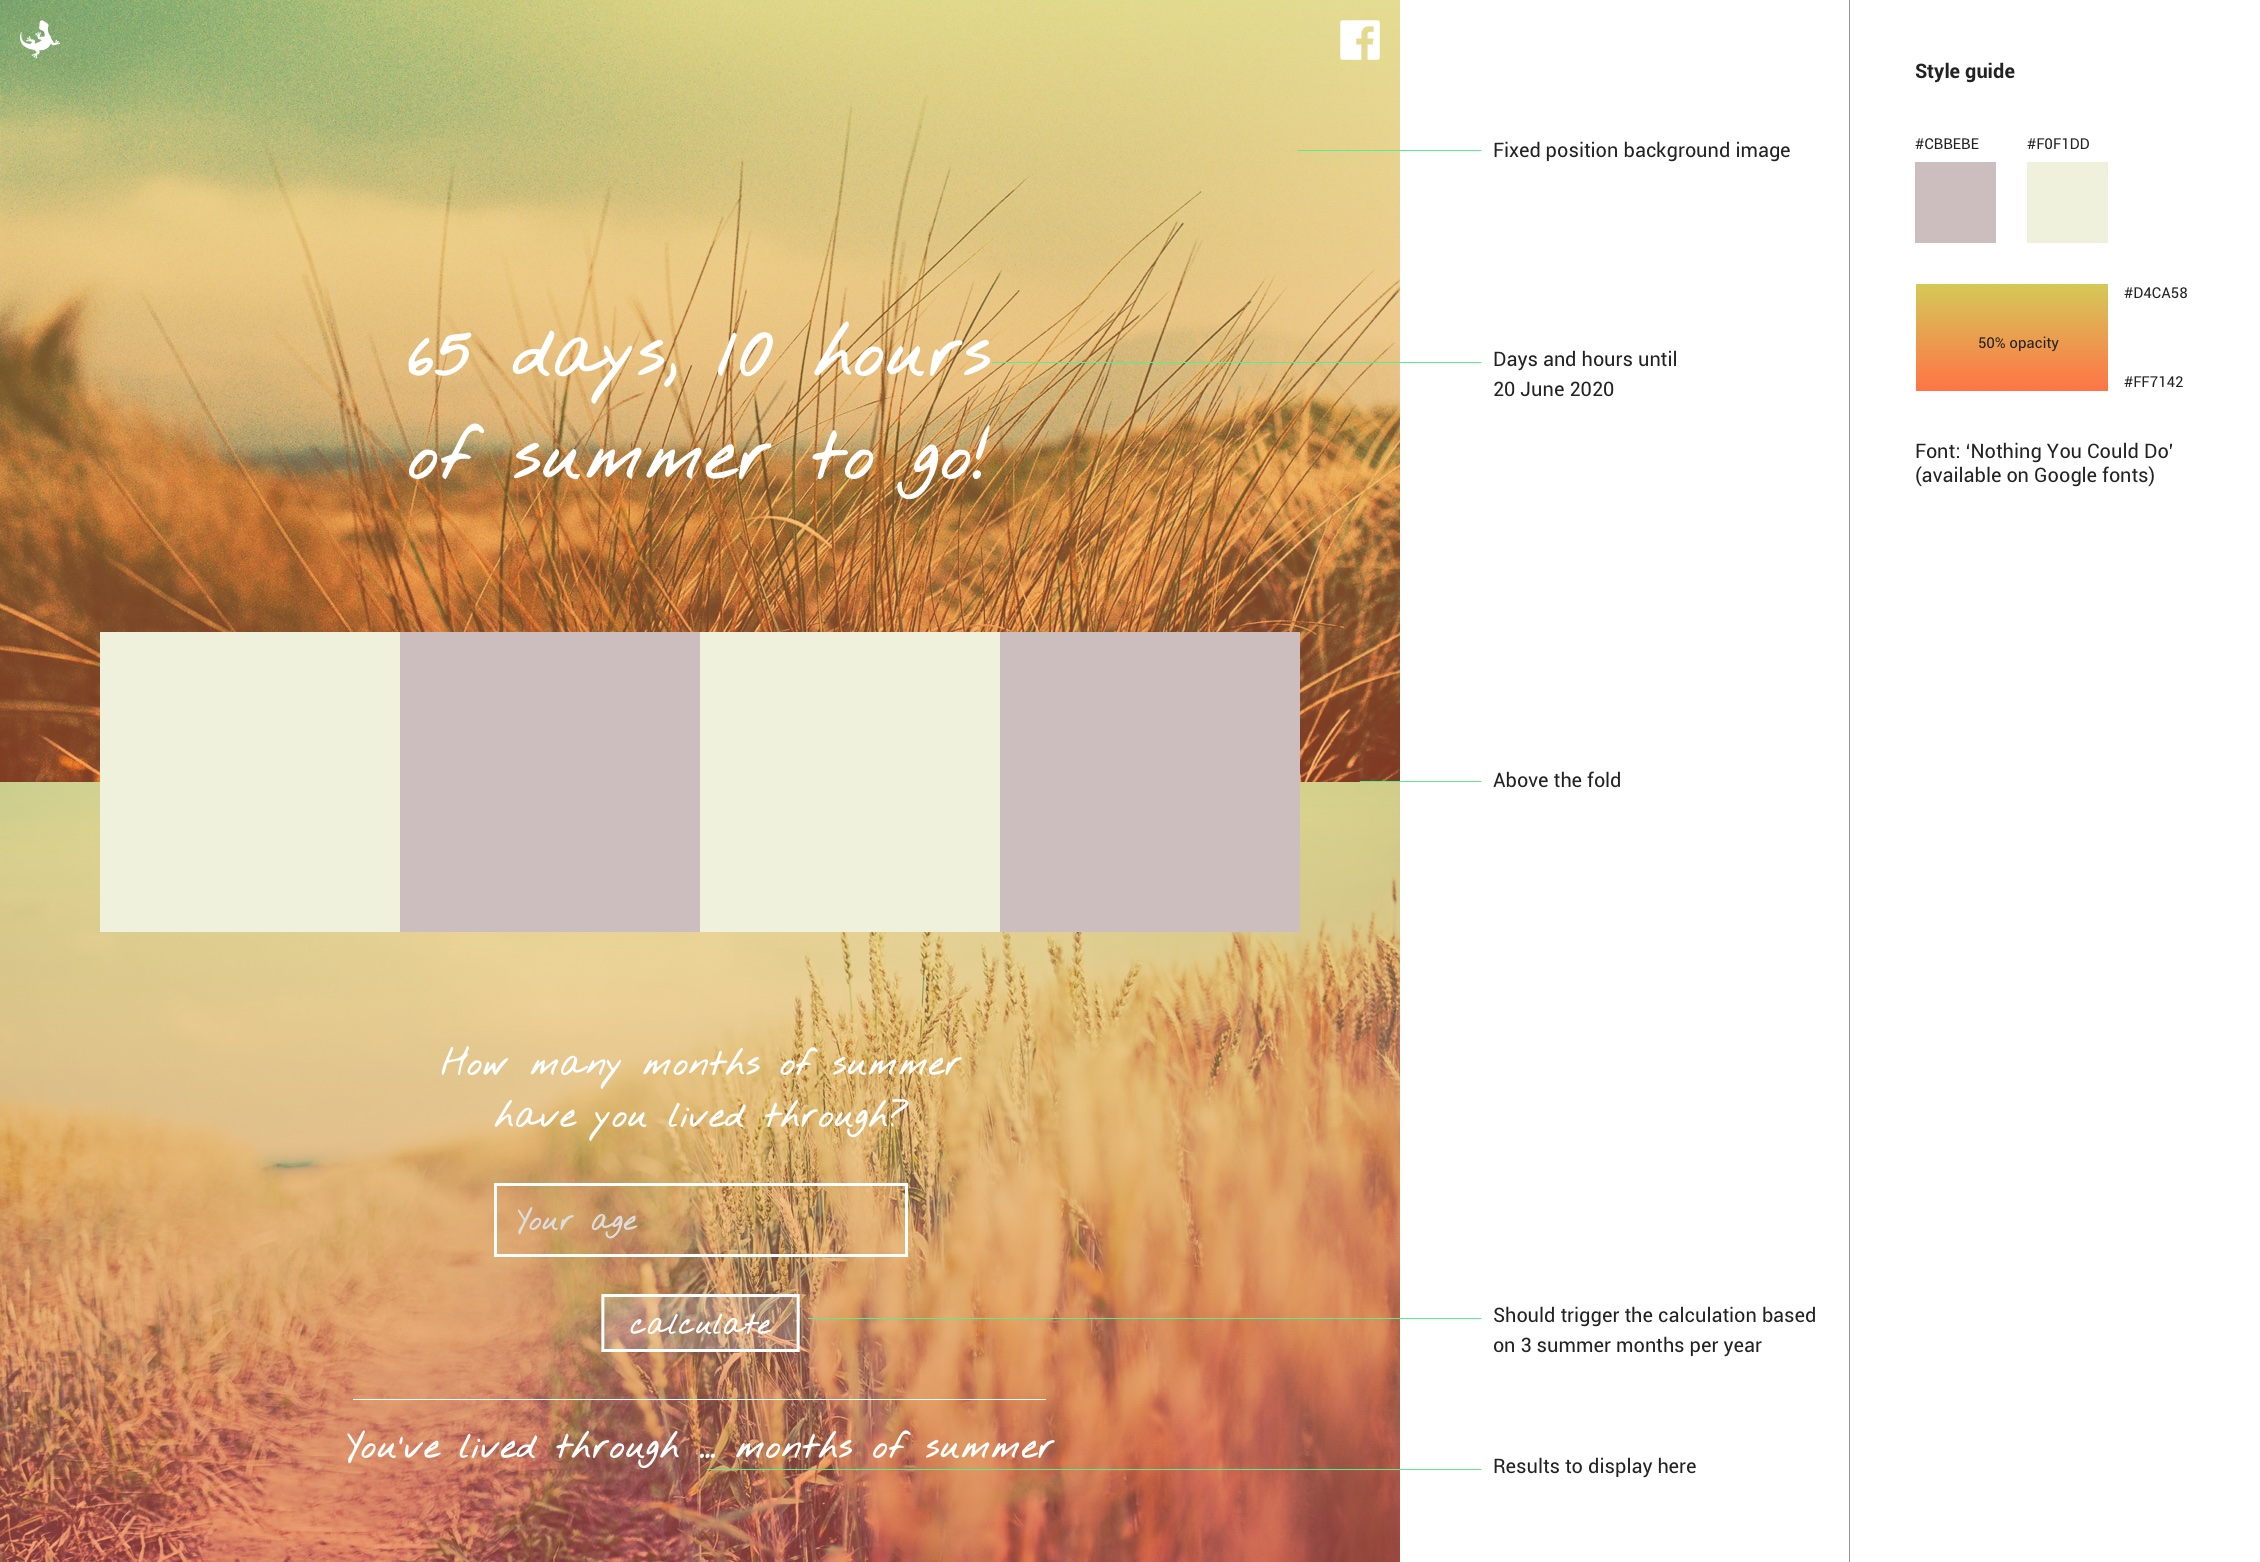
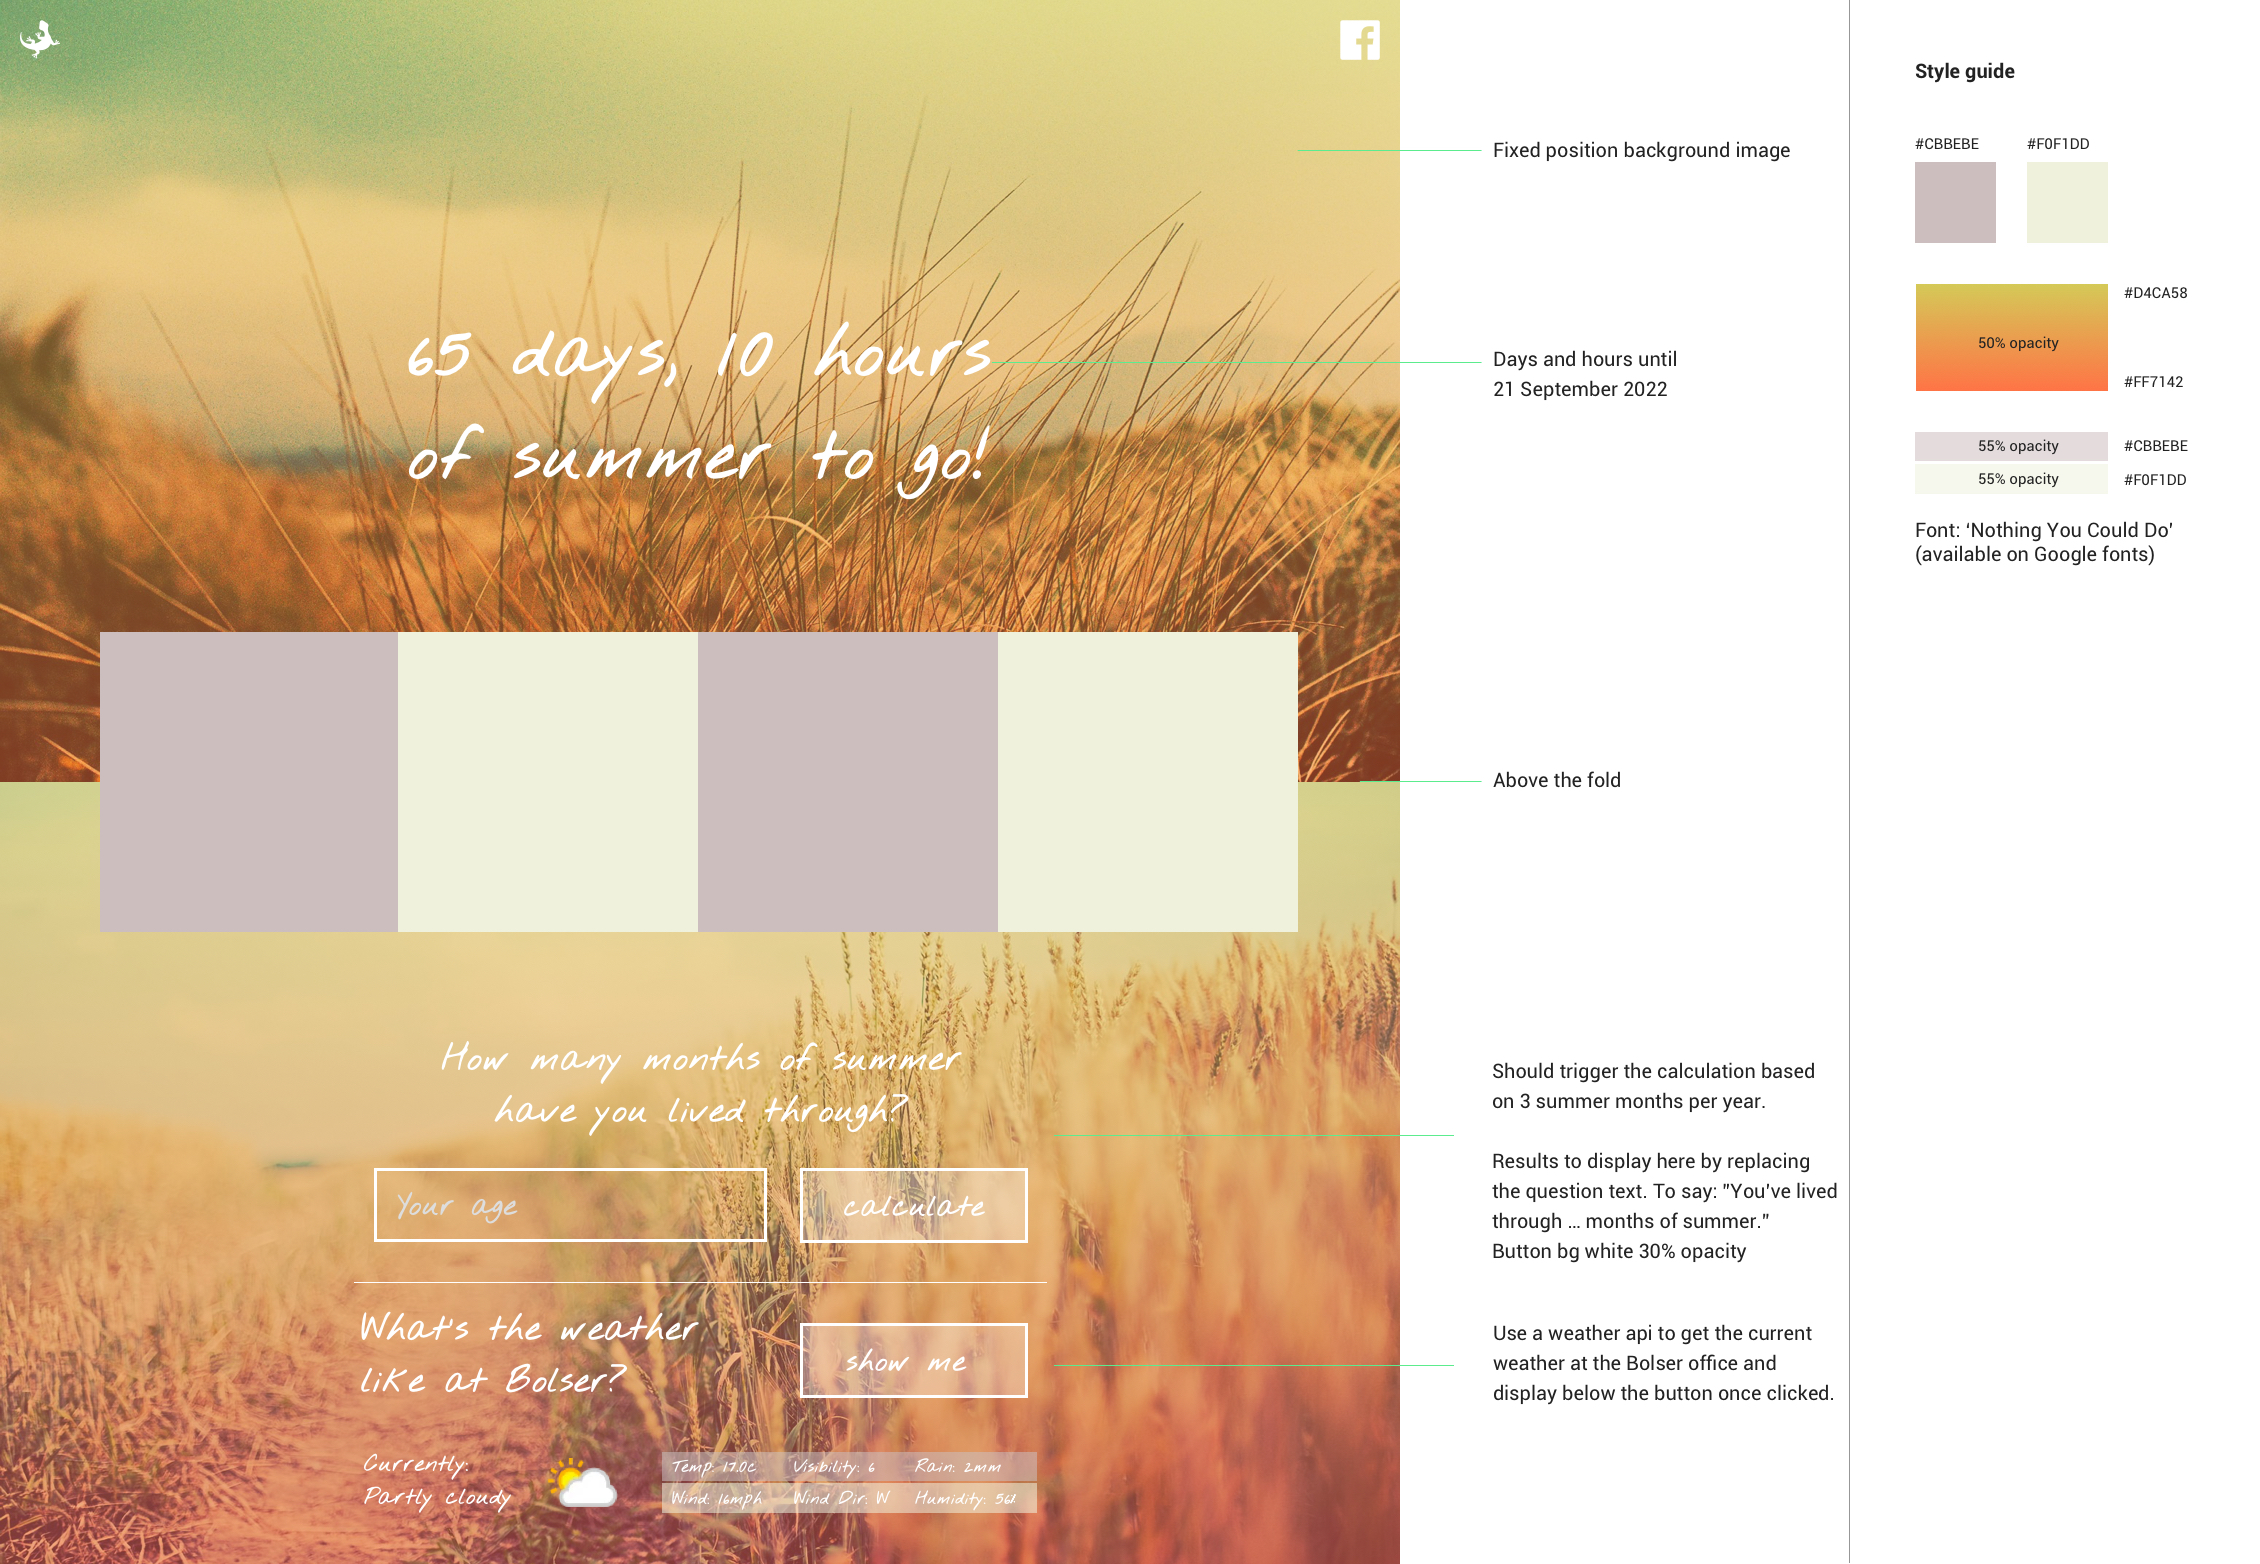
Test update to include weather api call

diff --git a/README.md b/README.md
@@ -1,18 +1,16 @@
 # Bolser Front End Test
 
-As a quick test we would like you to create a small web page using the attached design *(page-mockup.jpg)* along with some basic dynamic functionality.
-
+As a quick test we would like you to create a small web page using the attached design *(page-mockup.jpg)* along with some basic dynamic functionality using Vue.js and Vite for tooling.
 
 We have only provided a desktop version so feel free to make any changes you see fit for a responsive layout. Feel free to elaborate on the design and add any animations etc however this isn't at all required.
-
-Feel free to build using any tools/frameworks you see fit, it would be handy to include a README if there are any steps required to run locally.
 
 ## Criteria
 
 - Hero section should fill screen on load
 - Hero background image should have fixed position when scrolled
-- Text in the hero should give the days and hours left until 20 June 2020
+- Text in the hero should give the days and hours left until 21 September 2022
 - Page should respond gracefully on mobile
 - It should conform to style guide included in the jpg file
 - Assets should be optimised
-- Body section should include functionality so the user can input their age and click *calculate* to get the number of summer months they have lived through (based on 3 summer months per year).
+- Body section should include functionality so the user can input their age and click *calculate* to get the number of summer months they have lived through (based on 3 summer months per year) and update the text on screen to show the result.
+- Show me the weather at the Bolser office location using a weather api call when clicked to then update the DOM with the response
